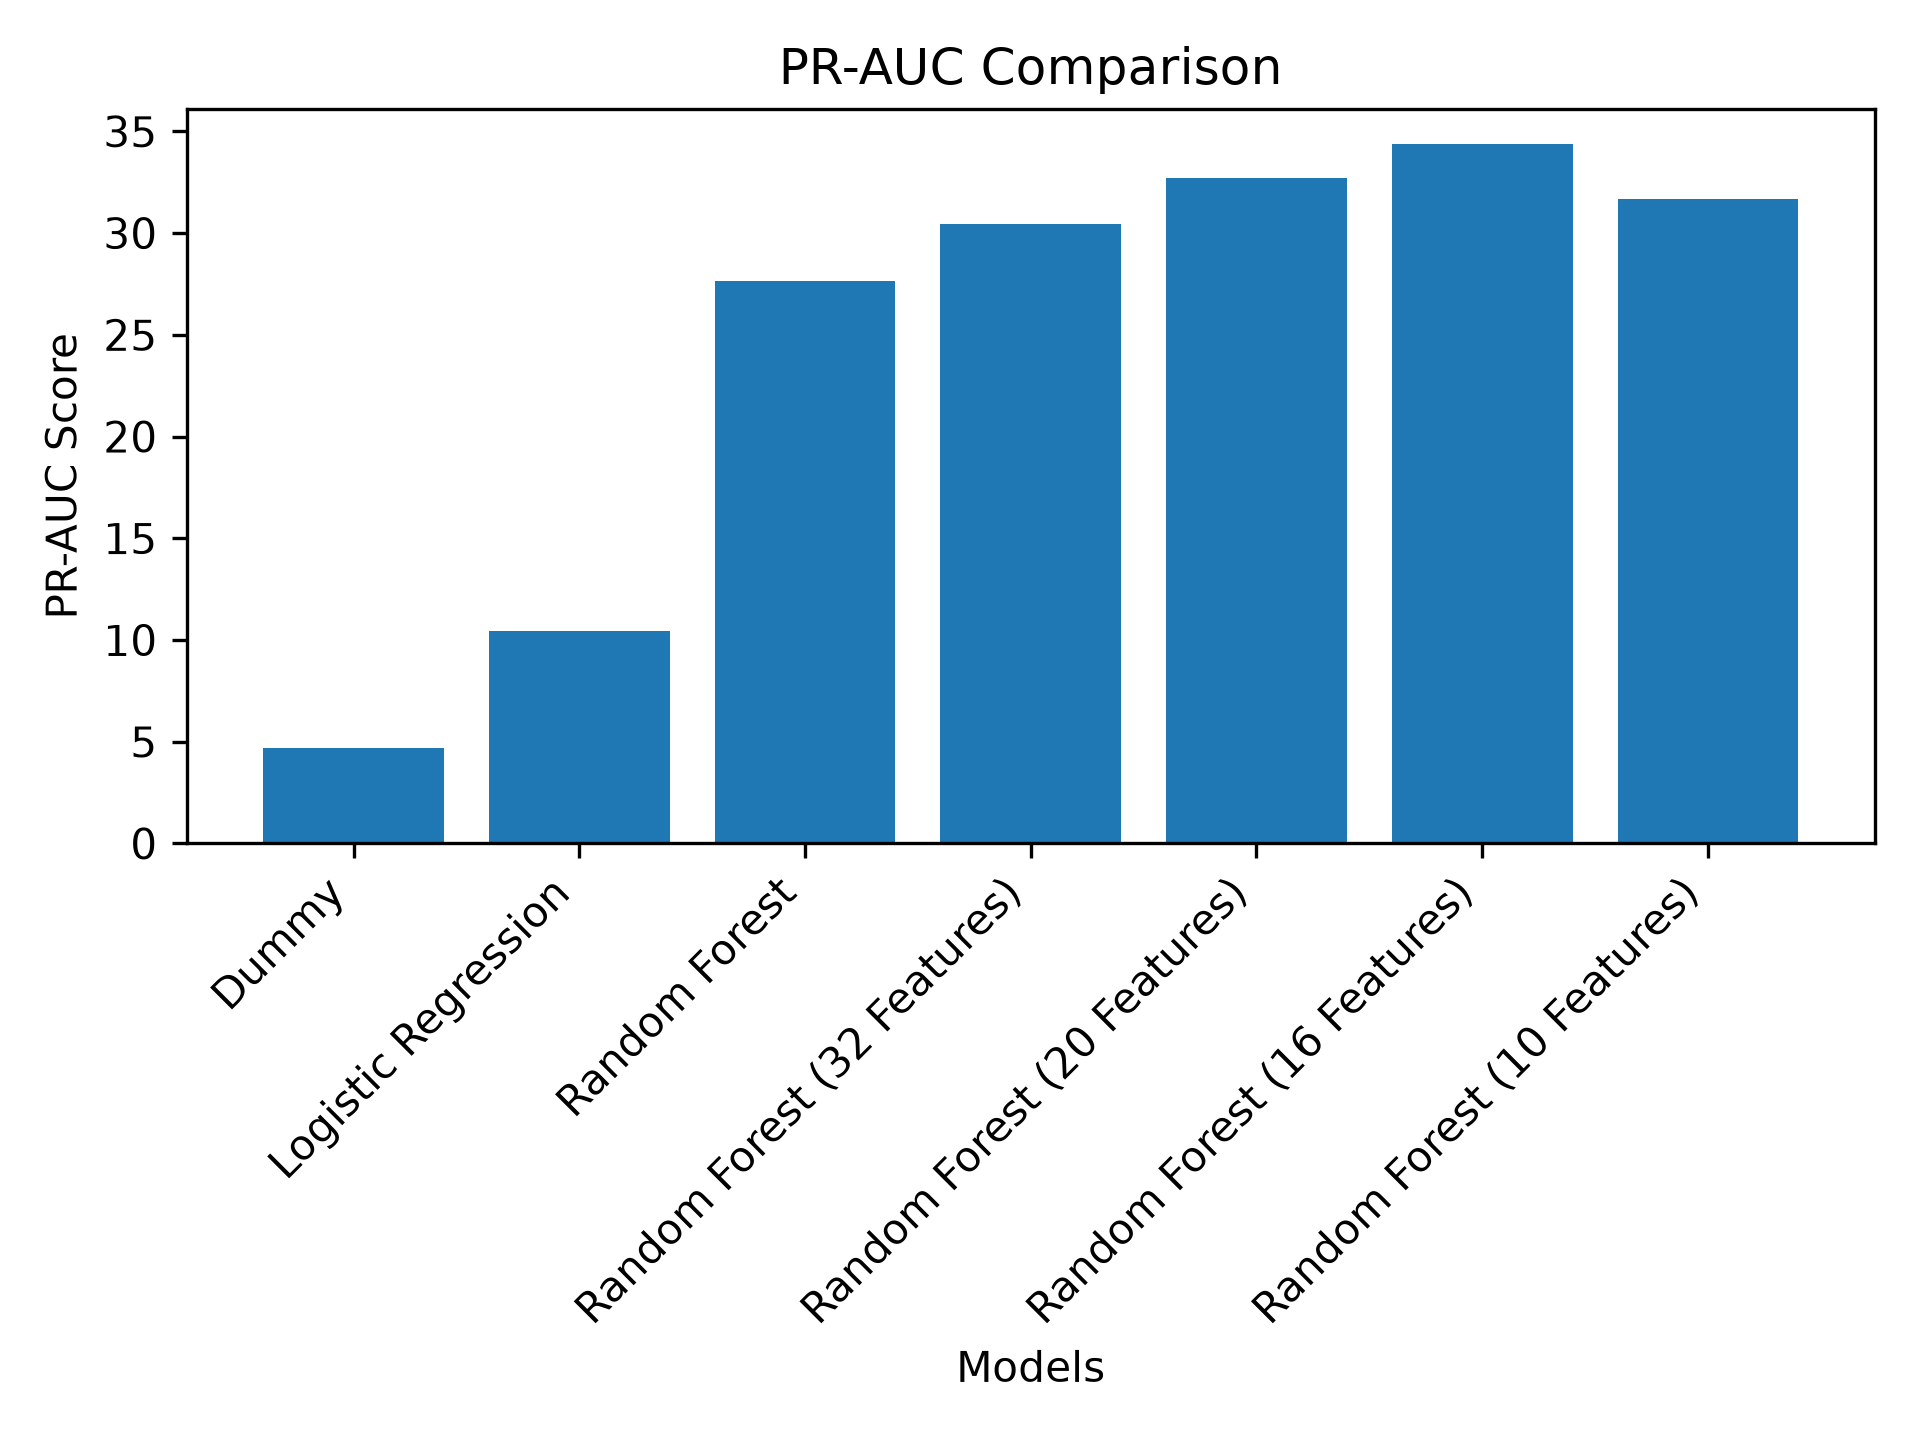
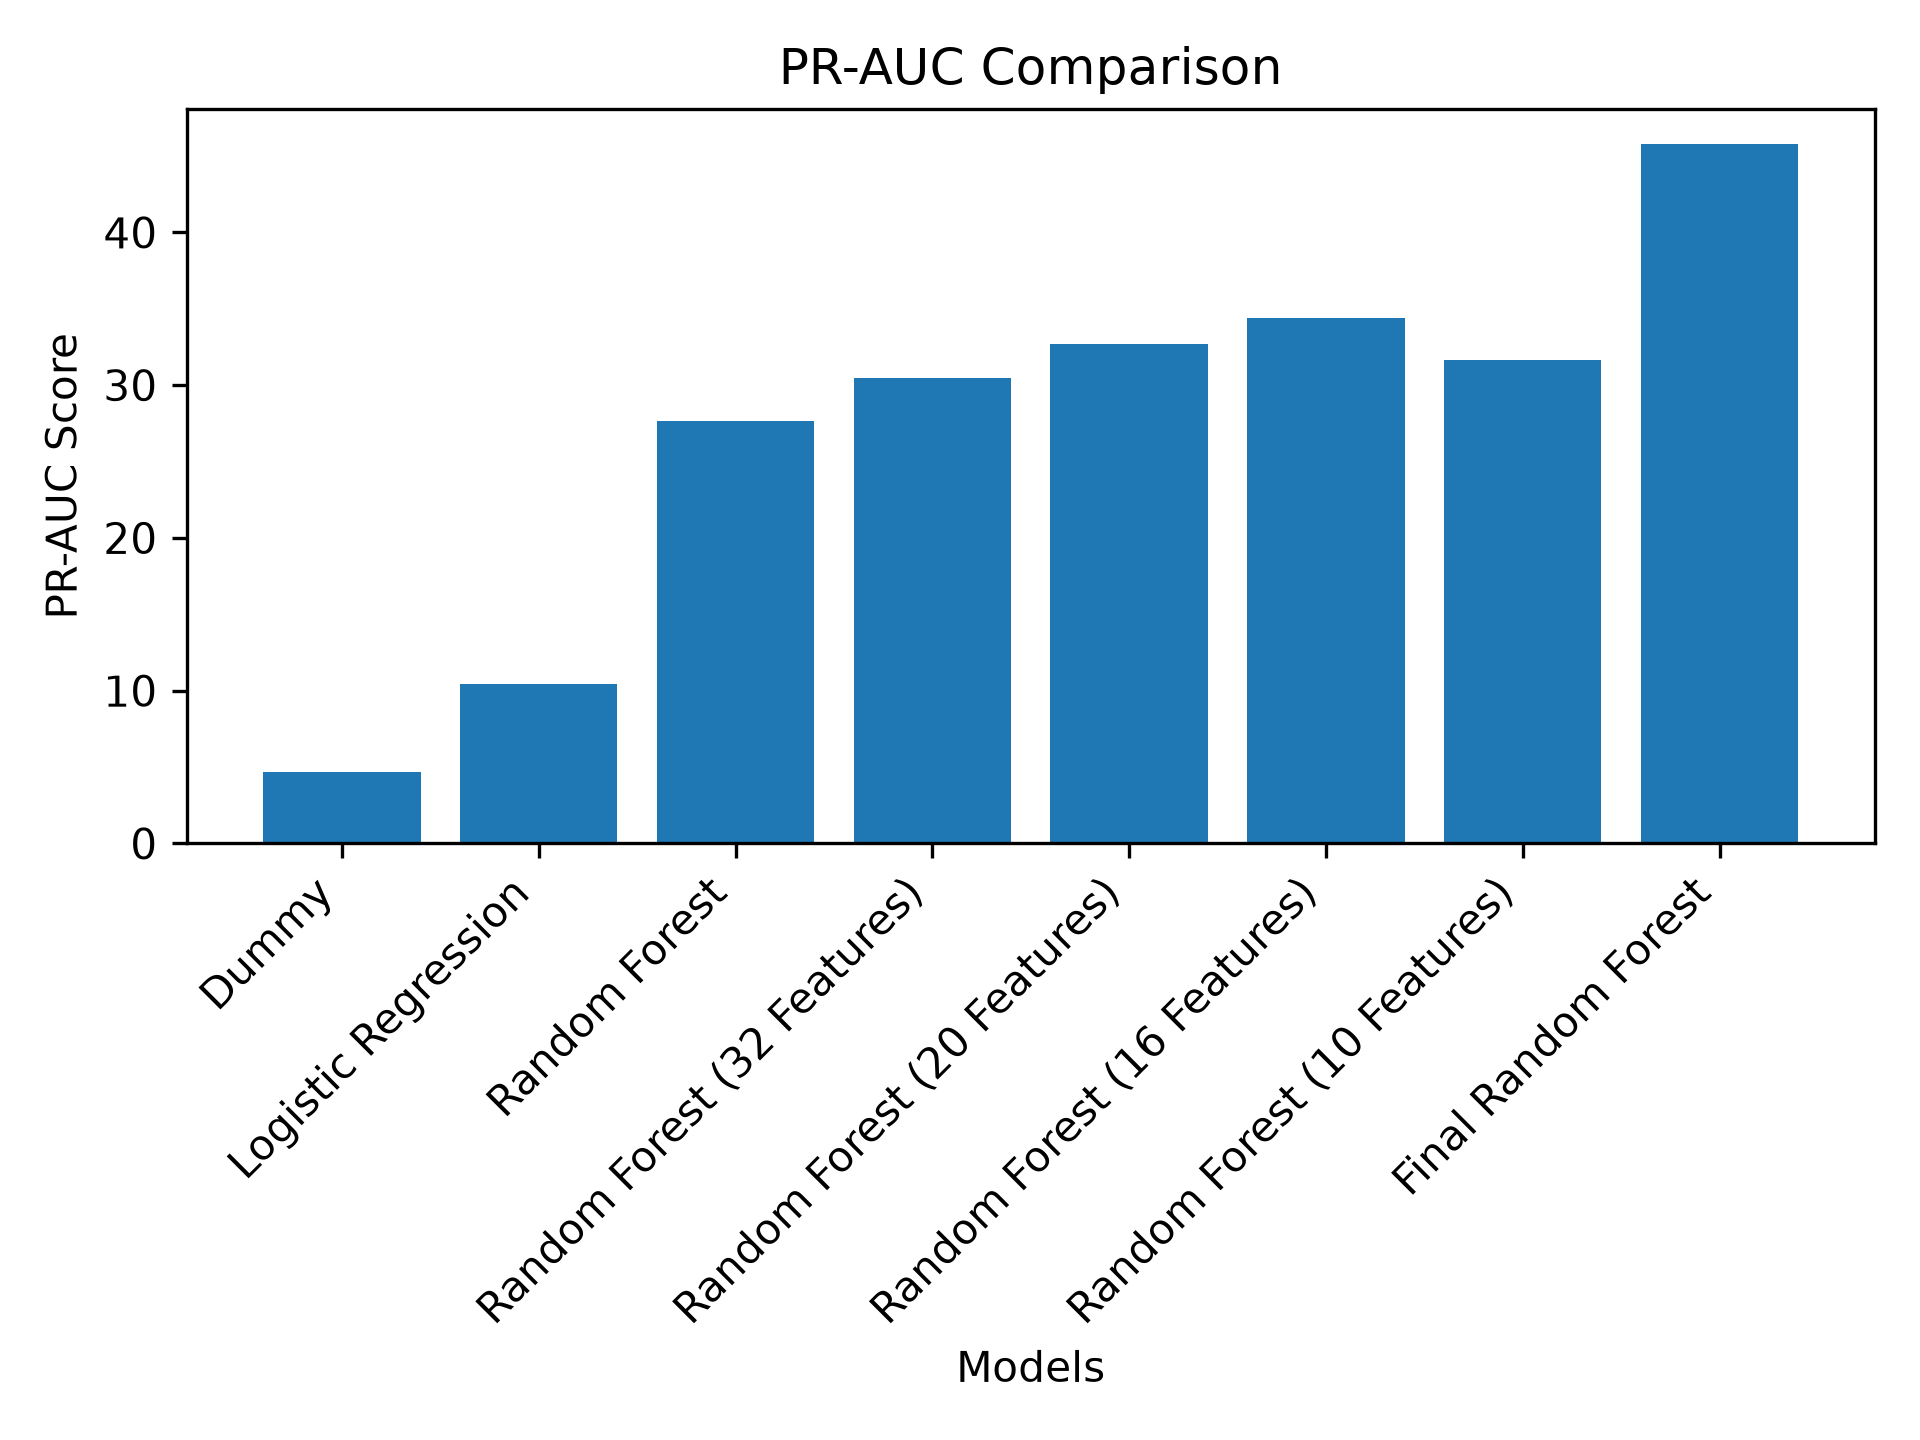
train final random forest model on 16 top features

diff --git a/src/leansignal/main.py b/src/leansignal/main.py
@@ -97,7 +97,7 @@ def main():
 
             print_line_separator()
             print("Starting Final Fitting Stage")
-            # final_predictions, final_probability_predictions, feature_count = train_rf(X_dev, y_dev, X_test, "median", None)
+            final_predictions, final_probability_predictions, final_feature_count = train_rf(X_dev, y_dev, X_test, -np.inf, 16)
 
             print_line_separator()
 
@@ -137,10 +137,10 @@ def main():
                 "Features": ten_feature_count,
                 **compute_metrics(y_val, ten_probability_predictions, ten_predictions),
             },
-            # "Final Random Forest": {
-            #     "Features": feature_count,
-            #     **compute_metrics(y_test, final_probability_predictions, final_predictions)
-            # }
+            "Final Random Forest": {
+                "Features": final_feature_count,
+                **compute_metrics(y_test, final_probability_predictions, final_predictions)
+            }
         }
         results = pd.DataFrame.from_dict(metrics_by_model, orient="index")
         results.index.name = "Model"
